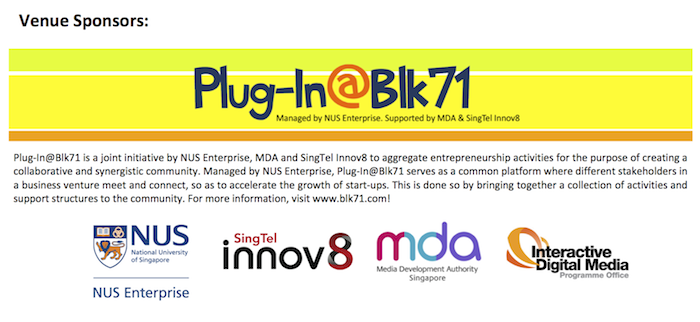
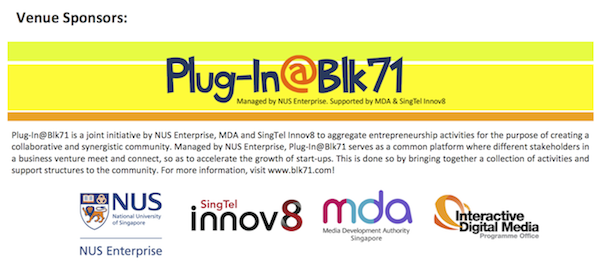
add sponsor image

diff --git a/_posts/2013-03-19-ios.md b/_posts/2013-03-19-ios.md
@@ -42,12 +42,10 @@ Tutorials will be provided online. SIX workshop days and Demo day are as follows
   
   - __DEMO Day: Wednesday 8th May!__
 
-Venue: 71 Ayer Rajah Crescent, #02-18
-Singapore 139951
-
-Link: [Plugins@Blk71](http://www2.blk71.com/)
-
+Venue: 71 Ayer Rajah Crescent, #02-18, Singapore 139951
 Time: 7PM to 9PM.
+
+![Event Venue](http://30d.me/assets/img/ios/Event-Venue-Plugin.png)
 
 ##Can anyone join the iOS Challenge?
 This program doesn't require you to have a programming background. The main requirement is you really need a strong passion to create things, and to be a builder.
@@ -64,6 +62,12 @@ You need to put in S$50 for this 30 Day iOS Challenge. We are ***NOT*** profitin
 ## Register here
 <<<a href="https://docs.google.com/forms/d/1GX6XK6Kp82DOA3Jmsvjr3-GbbT_ytYlhlA-7RAILsjg/viewform" target="_blank">Registering Form</a>>>
 
-_
 
 _PS: This program is not intended to replace other iOS Training by top experts. Our mission is to give support to self-study of programming while utilizing free online tutorials and friend-to-friend motivation._
+
+## Sponsor
+
+A big thank you to our venue sponsor! [Plugin@Blk71](http://blk71.com)
+
+[![Event Sponsors](http://30d.me/assets/img/ios/Event-Sponsor-Small.png)](http://blk71.com)
+

diff --git a/_posts/2013-03-29-instructors.md b/_posts/2013-03-29-instructors.md
@@ -23,7 +23,7 @@ title: Instructors
 
 <p>
   <h3>Cong Vo (<a href="https://twitter.com/athanhcong" target="_blank">@athanhcong</a>)</h3>
-  Cong built <a href="https://itunes.apple.com/us/app/babygram-pregnancy-baby-journal/id563143651"  target="_blank">Babygram</a>,<i> a private network for family.</i><br/>
+  Cong built <a href="https://itunes.apple.com/us/app/babygram-pregnancy-baby-journal/id563143651"  target="_blank">Babygram</a> at Stickery,<i> a private network for family.</i><br/>
   He also built iOS Challenge App for this program.
 </p>
 
